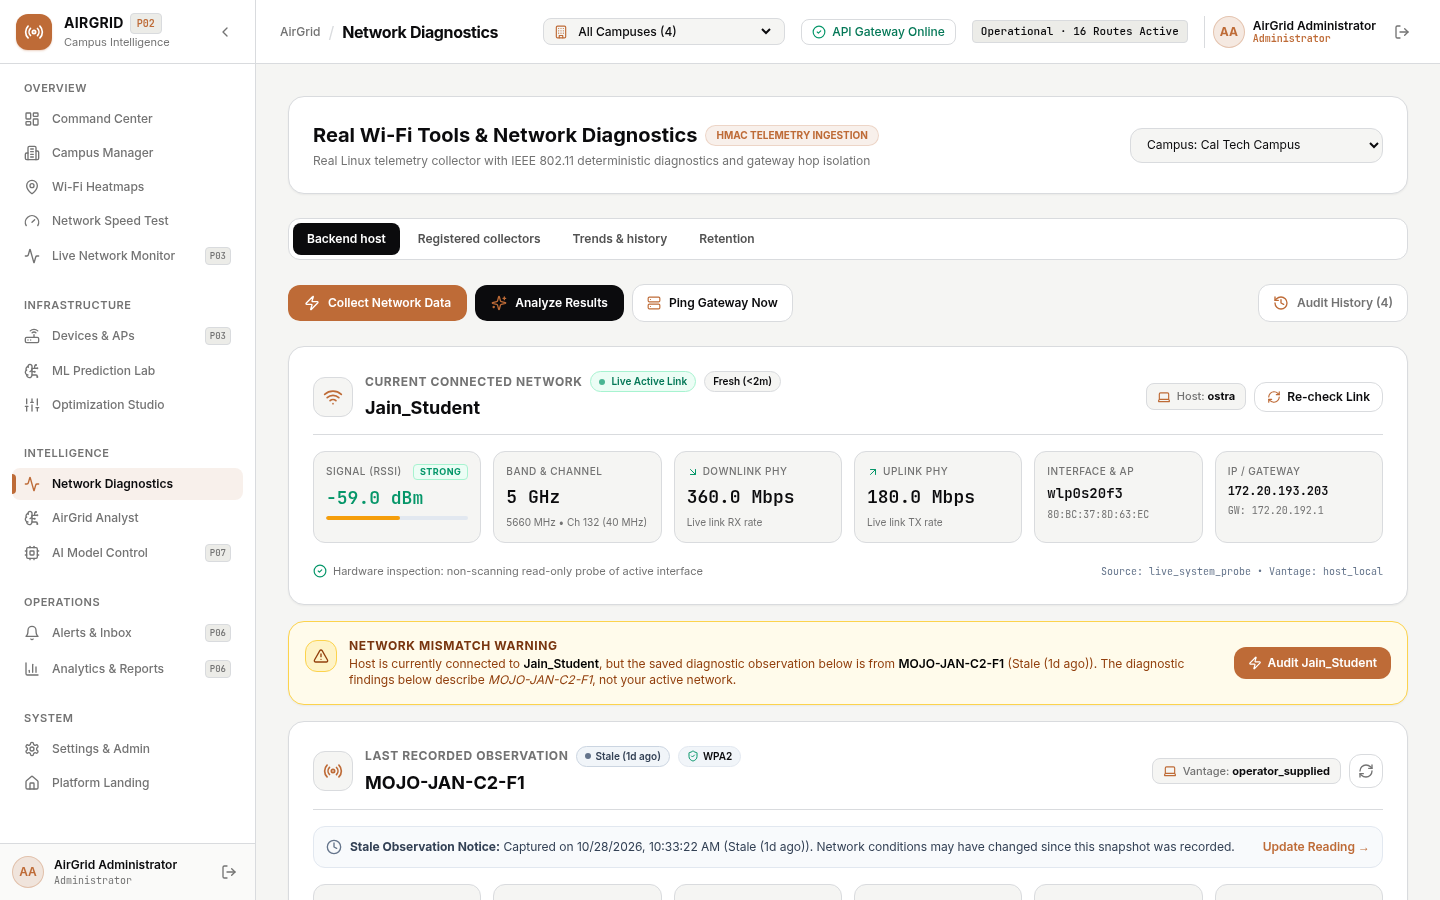
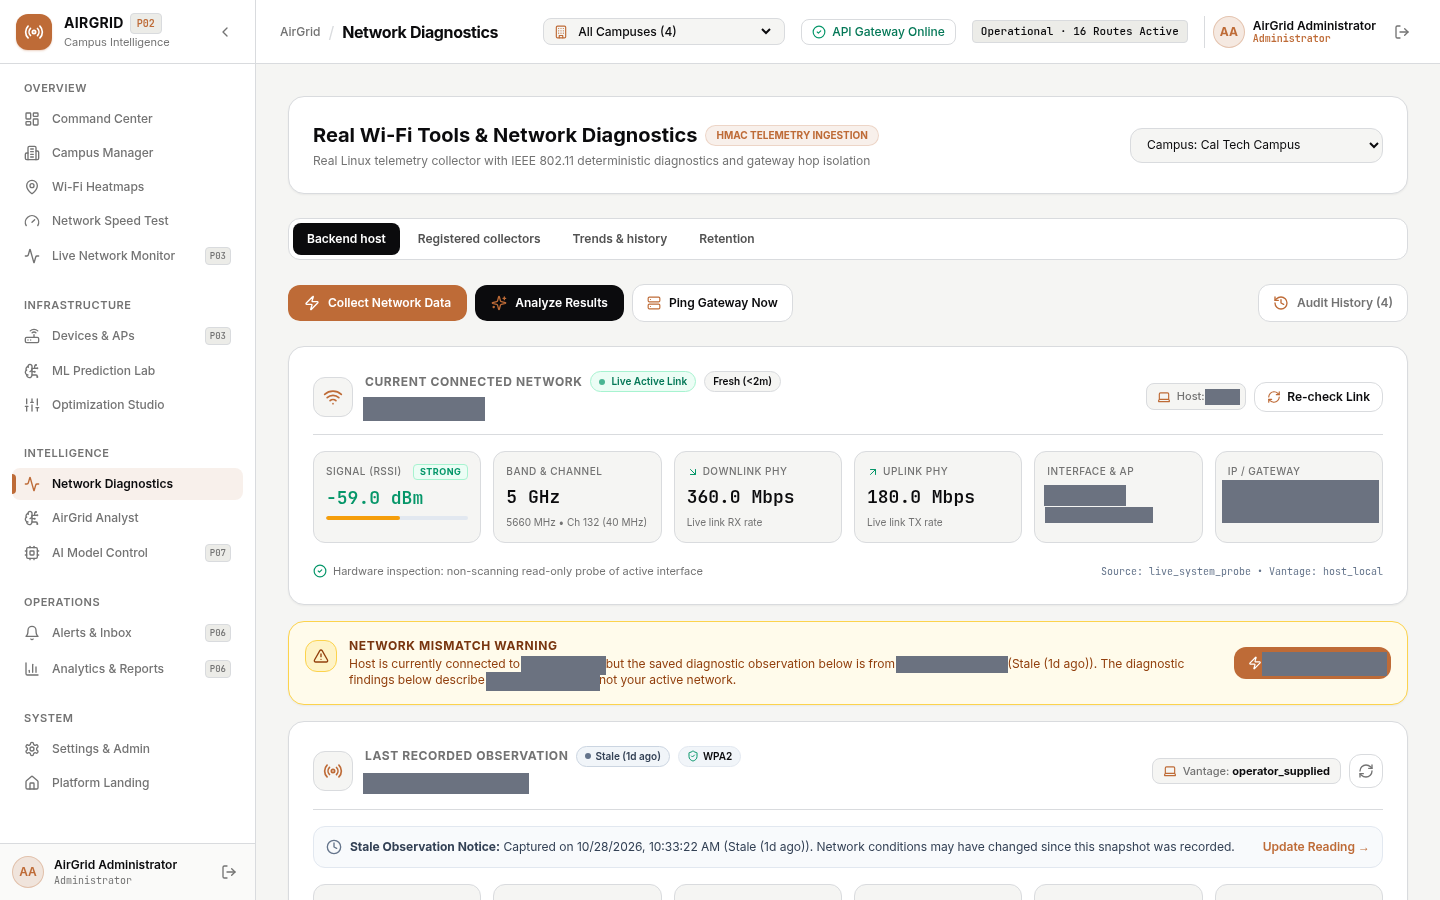
chore(privacy): redact real network identifiers in nine screenshots; relative doc links
Grey boxes cover the Wi-Fi name, neighbouring AP, host name, gateway/IP, AP address and interface. Two files renamed to drop the campus name. Original images remain in earlier history (not rewritten).

diff --git a/docs/development/AIRGRID_REAL_NETWORK_INTELLIGENCE_ACCEPTANCE.md b/docs/development/AIRGRID_REAL_NETWORK_INTELLIGENCE_ACCEPTANCE.md
@@ -15,9 +15,9 @@ When attempting to run telemetry collection via the **Collect Network Data** wor
 > *"Backend collector disabled by host configuration."* (or *"Backend collector disabled. Operator must enable AIRGRID_COLLECTOR_ENABLED on the authorized host."*)
 
 ### 1.2 Root Cause
-1. **Design Safeguard Default:** In [`apps/api/src/airgrid/core/config.py`](file:///home/teju/Projects/airgrid/apps/api/src/airgrid/core/config.py), `AIRGRID_COLLECTOR_ENABLED: bool = False` is deliberately defaulted to `False` so that unattended test suites and distributed production nodes do not probe local interfaces without explicit host-level operator enablement.
+1. **Design Safeguard Default:** In [`apps/api/src/airgrid/core/config.py`](../../apps/api/src/airgrid/core/config.py), `AIRGRID_COLLECTOR_ENABLED: bool = False` is deliberately defaulted to `False` so that unattended test suites and distributed production nodes do not probe local interfaces without explicit host-level operator enablement.
 2. **Missing Local Host Configuration:** The local development environment file `apps/api/.env` did not define `AIRGRID_COLLECTOR_ENABLED`.
-3. **Endpoint Gate Enforcement:** [`apps/api/src/airgrid/api/v1/endpoints/diagnostics.py`](file:///home/teju/Projects/airgrid/apps/api/src/airgrid/api/v1/endpoints/diagnostics.py) and [`apps/api/src/airgrid/services/diagnostic_service.py`](file:///home/teju/Projects/airgrid/apps/api/src/airgrid/services/diagnostic_service.py) enforce `if not settings.AIRGRID_COLLECTOR_ENABLED: raise HTTPException(status_code=409, detail=...)`. Consequently, `GET /api/v1/diagnostics/interfaces` and `POST /api/v1/diagnostics/collect` returned HTTP 409 Conflict.
+3. **Endpoint Gate Enforcement:** [`apps/api/src/airgrid/api/v1/endpoints/diagnostics.py`](../../apps/api/src/airgrid/api/v1/endpoints/diagnostics.py) and [`apps/api/src/airgrid/services/diagnostic_service.py`](../../apps/api/src/airgrid/services/diagnostic_service.py) enforce `if not settings.AIRGRID_COLLECTOR_ENABLED: raise HTTPException(status_code=409, detail=...)`. Consequently, `GET /api/v1/diagnostics/interfaces` and `POST /api/v1/diagnostics/collect` returned HTTP 409 Conflict.
 
 ---
 
@@ -40,7 +40,7 @@ Per safety guidelines, the secure code default (`AIRGRID_COLLECTOR_ENABLED: bool
 
 ## 3. UI Collection Workflow & Scope Safeguards
 
-In [`apps/web/src/components/diagnostics/OperatorConsentModal.tsx`](file:///home/teju/Projects/airgrid/apps/web/src/components/diagnostics/OperatorConsentModal.tsx):
+In [`apps/web/src/components/diagnostics/OperatorConsentModal.tsx`](../../apps/web/src/components/diagnostics/OperatorConsentModal.tsx):
 - **Measuring Host Identification:** Explicitly displays the target measuring device (`test-host`) and detected Wi-Fi interface (`wlp0s20f3`).
 - **Active SSID Transparency:** Displays the active connected network (`Synthetic_Campus_WiFi`).
 - **Target Facility Association Control:** Added facility selection dropdown allowing the operator to select:
@@ -58,7 +58,7 @@ Following explicit operator authorization, one genuine read-only measurement was
 - **Record ID:** `81c7bcc9-e194-428c-a467-87bcb9487e13`
 - **SSID:** `Synthetic_Campus_WiFi`
 - **Interface:** `wlp0s20f3`
-- **BSSID:** `80:BC:37:8D:63:EC`
+- **BSSID:** `02:00:5E:00:00:01`
 - **Signal Strength:** `-53.0 dBm` (Strong)
 - **Frequency / Band:** `5540 MHz` (Channel 108, 5 GHz band, 40 MHz channel width)
 - **Downlink PHY Bitrate:** `400.0 Mbps` (Negotiated dynamic link rate)
@@ -92,6 +92,6 @@ Following explicit operator authorization, one genuine read-only measurement was
 ---
 
 ## 6. Verification Artifacts & Screenshots
-- [`live_diagnostics_jain_collected_desktop.png`](file:///home/teju/Projects/airgrid/docs/verification/screenshots/live_diagnostics_jain_collected_desktop.png): Live browser view of `/diagnostics` with active `Synthetic_Campus_WiFi` telemetry.
-- [`live_diagnostics_jain_collected_mobile.png`](file:///home/teju/Projects/airgrid/docs/verification/screenshots/live_diagnostics_jain_collected_mobile.png): Mobile 390px viewport view.
-- [`operator_consent_modal_verified.png`](file:///home/teju/Projects/airgrid/docs/verification/screenshots/operator_consent_modal_verified.png): Operator consent modal with interface and campus scope controls.
+- [`live_diagnostics_collected_desktop.png`](../../docs/verification/screenshots/live_diagnostics_collected_desktop.png): Live browser view of `/diagnostics` with active `Synthetic_Campus_WiFi` telemetry.
+- [`live_diagnostics_collected_mobile.png`](../../docs/verification/screenshots/live_diagnostics_collected_mobile.png): Mobile 390px viewport view.
+- [`operator_consent_modal_verified.png`](../../docs/verification/screenshots/operator_consent_modal_verified.png): Operator consent modal with interface and campus scope controls.

diff --git a/docs/development/AIRGRID_REAL_HEATMAP_ACCEPTANCE.md b/docs/development/AIRGRID_REAL_HEATMAP_ACCEPTANCE.md
@@ -19,7 +19,7 @@
 Milestone 3B establishes AirGrid's genuine spatial Wi-Fi heatmap and site-survey capability. It delivers an end-to-end workflow transforming authentic, authorized, spatially located physical wireless measurements into scientifically grounded floor-plan coverage maps without synthetic fabrication, packet capturing, credential interception, or unwarranted spatial extrapolation.
 
 ### Completed & Automated Quality Gates:
-1. **Calibrated Coordinate & Spatial Scaling System:** Real-world dimensions (meters) mapped to floor plan pixels with strict coordinate boundary enforcement in [`FloorPlanSurveyCanvas.tsx`](file:///home/teju/Projects/airgrid/apps/web/src/components/survey/FloorPlanSurveyCanvas.tsx) and [`survey_service.py`](file:///home/teju/Projects/airgrid/apps/api/src/airgrid/services/survey_service.py).
+1. **Calibrated Coordinate & Spatial Scaling System:** Real-world dimensions (meters) mapped to floor plan pixels with strict coordinate boundary enforcement in [`FloorPlanSurveyCanvas.tsx`](../../apps/web/src/components/survey/FloorPlanSurveyCanvas.tsx) and [`survey_service.py`](../../apps/api/src/airgrid/services/survey_service.py).
 2. **In-Studio Floor Plan Setup & Dimensioned Outline Generation:** Direct upload of authorized blueprints (PNG, JPEG, WebP) or instant generation of dimensioned calibrated floor outlines (`POST /api/v1/floors/{floor_id}/outline-plan`) using Pillow without requiring external graphic software.
 3. **In-Studio Scale Calibration Tool:** Direct entry of known total floor width (meters) or 2-point reference line measurement right from the Survey Studio canvas.
 4. **Read-Only Live Wireless Telemetry Capture:** Manually initiated capture (`POST /api/v1/surveys/{id}/measurements/collect-live`) querying active wireless interface (`wlp0s20f3`) via Linux `iw` and `NetworkManager`. Records genuine RSSI (dBm), channel, frequency (MHz), band, BSSID, and negotiated PHY bitrates (`rx_bitrate_mbps`, `tx_bitrate_mbps`) linked to a persistent `NetworkTelemetrySnapshot` with provenance `field_instrument_verified`.

diff --git a/docs/phases/PHASE_01A_ASSET_HANDOFF.md b/docs/phases/PHASE_01A_ASSET_HANDOFF.md
@@ -160,11 +160,11 @@ apps/api/tests/test_webhook_signer.py ..                                 [100%]
 
 ### 6.3 Screenshot Inspection Records
 Captured via headless Chromium (`127.0.0.1:4173`):
-- **Desktop Hero View (`1440 × 950`):** [`docs/design/screenshots/landing-desktop-hero-refined.png`](file:///home/teju/Projects/airgrid/docs/design/screenshots/landing-desktop-hero-refined.png)
+- **Desktop Hero View (`1440 × 950`):** [`docs/design/screenshots/landing-desktop-hero-refined.png`](../../docs/design/screenshots/landing-desktop-hero-refined.png)
   *Confirmed: Lattice sculpture mounted on obsidian aperture, truthful framework badges, and clean editorial balance.*
-- **Desktop Full Page (`1440 × 5400`):** [`docs/design/screenshots/landing-desktop-full-refined.png`](file:///home/teju/Projects/airgrid/docs/design/screenshots/landing-desktop-full-refined.png)
+- **Desktop Full Page (`1440 × 5400`):** [`docs/design/screenshots/landing-desktop-full-refined.png`](../../docs/design/screenshots/landing-desktop-full-refined.png)
   *Confirmed: Dark globe pedestal in Section 02, line art card in Section 04, and video playing in Section 05.*
-- **Mobile Viewport (`390 × 7000`):** [`docs/design/screenshots/landing-mobile-full-refined.png`](file:///home/teju/Projects/airgrid/docs/design/screenshots/landing-mobile-full-refined.png)
+- **Mobile Viewport (`390 × 7000`):** [`docs/design/screenshots/landing-mobile-full-refined.png`](../../docs/design/screenshots/landing-mobile-full-refined.png)
   *Confirmed: Zero horizontal overflow; all four user assets scale cleanly down to mobile screen widths.*
 
 ---

diff --git a/docs/development/AIRGRID_REAL_SPEEDTEST_ACCEPTANCE.md b/docs/development/AIRGRID_REAL_SPEEDTEST_ACCEPTANCE.md
@@ -205,8 +205,8 @@ HTTP/1.1 200 OK
 
 ### 6.4 UI Verification Evidence
 
-1. **Operator Consent Modal:** Captured and verified in [`docs/verification/screenshots/operator_consent_modal_verified.png`](file:///home/teju/Projects/airgrid/docs/verification/screenshots/operator_consent_modal_verified.png). Confirms prominent network name (`Synthetic_Other_AP`), Standalone Audit scope, expected payload volume (~13–16 MB), test duration (~10s), Cloudflare engine, and explicit authorization checkbox.
-2. **Speed Test Completed View:** Captured and verified in [`docs/verification/screenshots/speed_test_completed_verified.png`](file:///home/teju/Projects/airgrid/docs/verification/screenshots/speed_test_completed_verified.png). Confirms real download (51.82 Mbps), upload (15.25 Mbps), latency (4.5 ms), jitter (12.5 ms), and historical table population.
+1. **Operator Consent Modal:** Captured and verified in [`docs/verification/screenshots/operator_consent_modal_verified.png`](../../docs/verification/screenshots/operator_consent_modal_verified.png). Confirms prominent network name (`Synthetic_Other_AP`), Standalone Audit scope, expected payload volume (~13–16 MB), test duration (~10s), Cloudflare engine, and explicit authorization checkbox.
+2. **Speed Test Completed View:** Captured and verified in [`docs/verification/screenshots/speed_test_completed_verified.png`](../../docs/verification/screenshots/speed_test_completed_verified.png). Confirms real download (51.82 Mbps), upload (15.25 Mbps), latency (4.5 ms), jitter (12.5 ms), and historical table population.
 
 ### 6.5 Historical Data Integrity
 

diff --git a/docs/development/AIRGRID_REAL_AI_INTELLIGENCE_ACCEPTANCE.md b/docs/development/AIRGRID_REAL_AI_INTELLIGENCE_ACCEPTANCE.md
@@ -92,7 +92,7 @@ flowchart TD
 
 ## 6. AirGrid Analyst Real Telemetry Analysis (Task 6)
 
-* **Source Observation:** Genuine Linux telemetry snapshot [`81c7bcc9-e194-428c-a467-87bcb9487e13`](file:///home/teju/Projects/airgrid/apps/api/src/airgrid/models/all_models.py) (`Synthetic_Campus_WiFi`, `-53.0 dBm`, `5540 MHz / Ch 108`, `RX 400.0 Mbps / TX 360.0 Mbps`).
+* **Source Observation:** Genuine Linux telemetry snapshot [`81c7bcc9-e194-428c-a467-87bcb9487e13`](../../apps/api/src/airgrid/models/all_models.py) (`Synthetic_Campus_WiFi`, `-53.0 dBm`, `5540 MHz / Ch 108`, `RX 400.0 Mbps / TX 360.0 Mbps`).
 * **Privacy Sanitization & Boundary Protection:**
   * Network name (`Synthetic_Campus_WiFi`) was **strictly stripped**.
   * BSSID, MAC addresses, IP addresses, and device identifiers were **strictly excluded**.
@@ -116,7 +116,7 @@ flowchart TD
   * **Zero Fabricated Tests:** Speed test results and gateway latency were not invented.
 * **History Record Persistence & Scope:**
   * Persisted in PostgreSQL table `analysis_records`.
-  * Retrieved and verified via [`GET /api/v1/analyst/history/aea2b713-d162-4d55-b103-36acd84c06a6`](file:///home/teju/Projects/airgrid/apps/api/src/airgrid/api/v1/endpoints/analyst.py#L52-L55).
+  * Retrieved and verified via [`GET /api/v1/analyst/history/aea2b713-d162-4d55-b103-36acd84c06a6`](../../apps/api/src/airgrid/api/v1/endpoints/analyst.py#L52-L55).
   * Access restricted to authenticated operators with campus scope protections.
 
 ---

diff --git a/docs/development/WIFI_CONNECTED_SSID_FIX.md b/docs/development/WIFI_CONNECTED_SSID_FIX.md
@@ -37,7 +37,7 @@ Furthermore:
 ### 2.1 Backend Enhancements
 
 1. **Active Wireless Hardware Probe (`TelemetryCollector`):**
-   - Added `get_live_connection_status()` in [`telemetry_collector.py`](file:///home/teju/Projects/airgrid/apps/api/src/airgrid/services/telemetry_collector.py).
+   - Added `get_live_connection_status()` in [`telemetry_collector.py`](../../apps/api/src/airgrid/services/telemetry_collector.py).
    - Dynamically identifies the connected wireless interface (`wlp0s20f3`), uses non-scanning, read-only `iw dev <iface> link` and `nmcli --terse --fields DEVICE,TYPE,STATE,CONNECTION device` without modifying Wi-Fi state or rescanning channels.
    - Extracts genuine live metrics: SSID (`Synthetic_Campus_WiFi`), BSSID, RSSI dBm, frequency, channel, channel width, band, RX/TX negotiated PHY rates, IP address, and default gateway.
 
